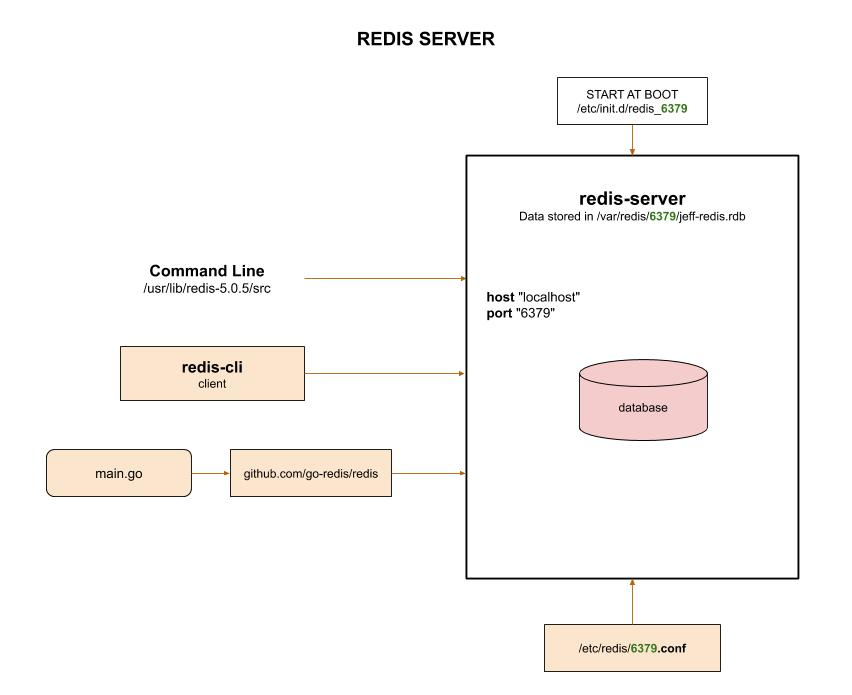
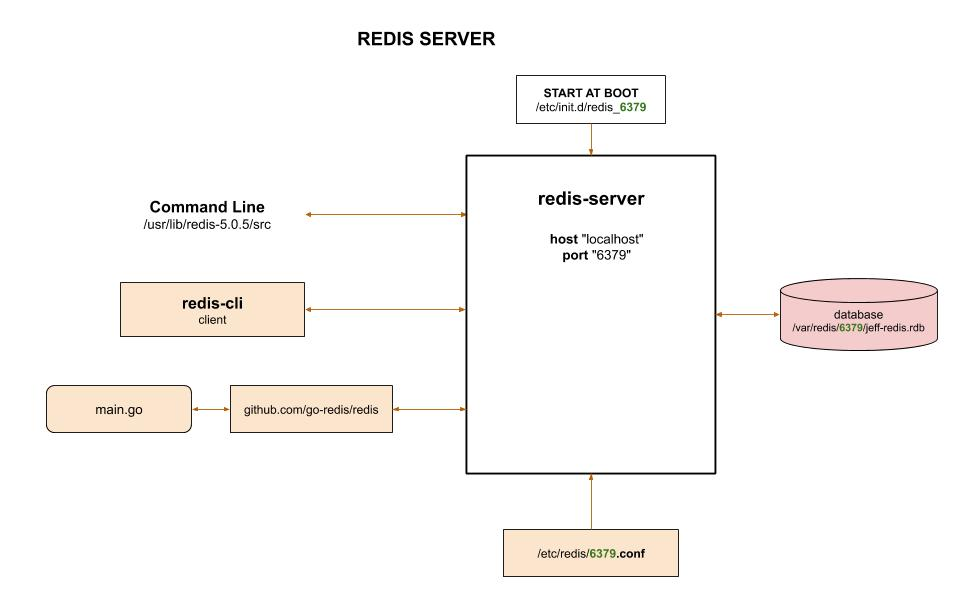
updated redis

Changed region(s): [[0.0305, 0.0936, 0.9765, 0.9672], [0.3662, 0.0312, 0.5798, 0.0936]]

diff --git a/software/development/software-architectures/database/redis-cheat-sheet/README.md b/software/development/software-architectures/database/redis-cheat-sheet/README.md
@@ -25,6 +25,8 @@ exit
 Documentation and reference,
 
 * [redis website](https://redis.io/)
+* Full list of
+  [redis-cli commands](https://redis.io/commands#hash).
 * To use with go, refer to my repo
   [my-go-examples](https://github.com/JeffDeCola/my-go-examples/tree/master/database/redis)
 * A great list of using
@@ -182,13 +184,66 @@ Start/stop (As mentioned above systemd is actually running the service manager),
 sudo /etc/init.d/redis_6379 start
 sudo /etc/init.d/redis_6379 stop
 ```
-## SOME COMMANDS
+## REDIS-CLI COMMANDS
 
-We can use the command SET to store the value "whats up" at key "jeff":
+Start,
 
 ```bash
 redis-cli
+```
+
+Set/get/delete,
+
+```bash
 set jeff "whats up"
 get jeff
+del jeff
 exit
 ```
+
+But it probably makes more sense to be more organized,
+
+Set/get more organized,
+
+```bash
+set people:jeff "whats up"
+set people:larry "yo yo"
+get people:jeff
+exit
+
+Expire data,
+
+```bash
+set bye "this will expire in 20 seconds"
+expire bye 20
+get bye
+```
+
+Lists,
+
+* RPUSH puts the new value at the end of the list
+* LPUSH puts the new value at the start of the list
+* LRANGE gets a subset of the list
+* LLEN returns the current length of the list.
+* LPOP removes the first element from the list and returns it.
+* RPOP removes the last element from the list and returns it.
+
+```bash
+rpush friends "Alice"
+rpush friends "Bob"
+lpush friends "Sam"
+lrange friends 0 -1
+llen friends
+```
+
+Set is like a list, but no order,
+
+```bash
+sadd superpowers "flight"
+sadd superpowers "x-ray vision"
+sadd superpowers "reflexes"
+smembers superpowers
+```
+
+Full list of redis-cli commands
+[here](https://redis.io/commands#hash).
